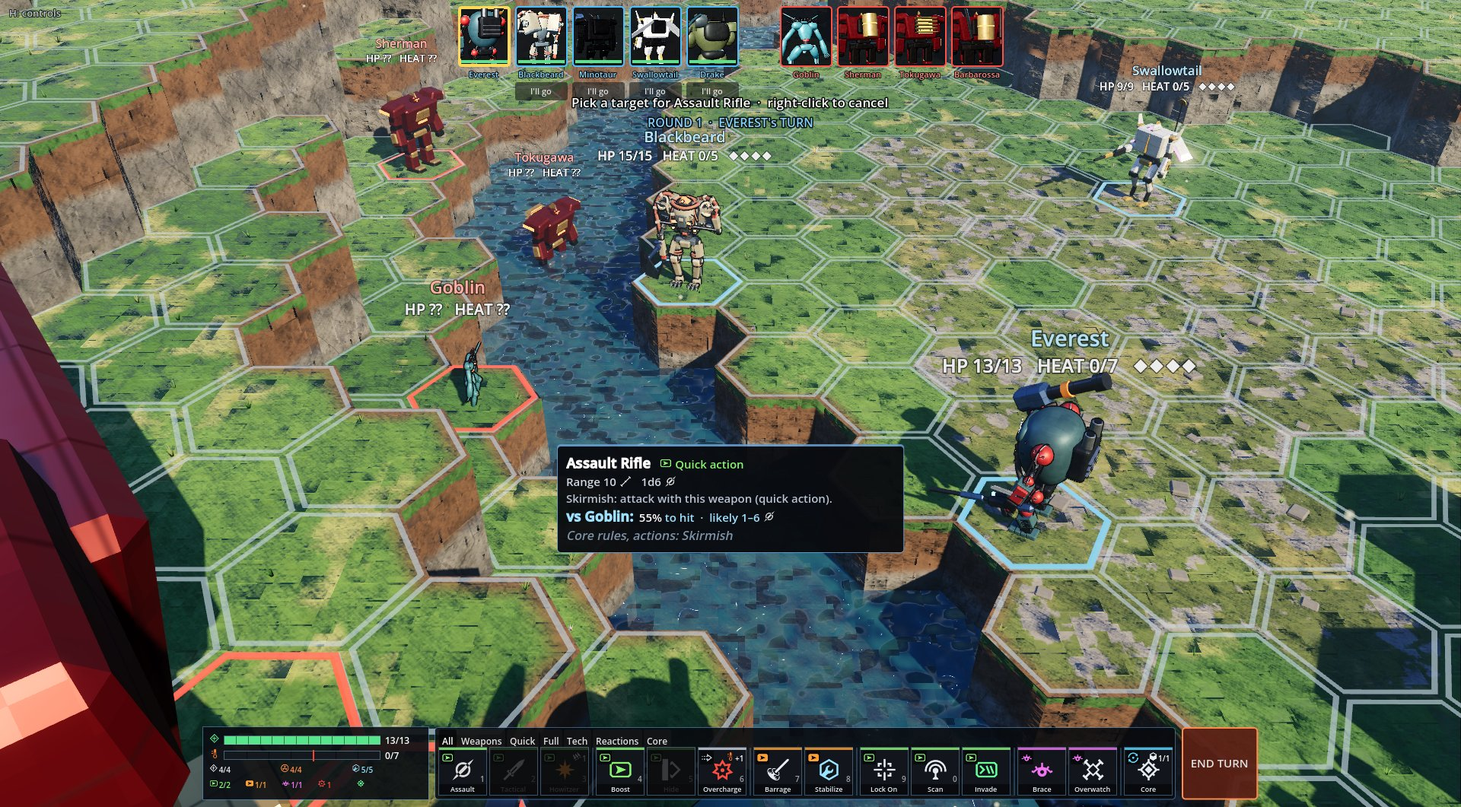
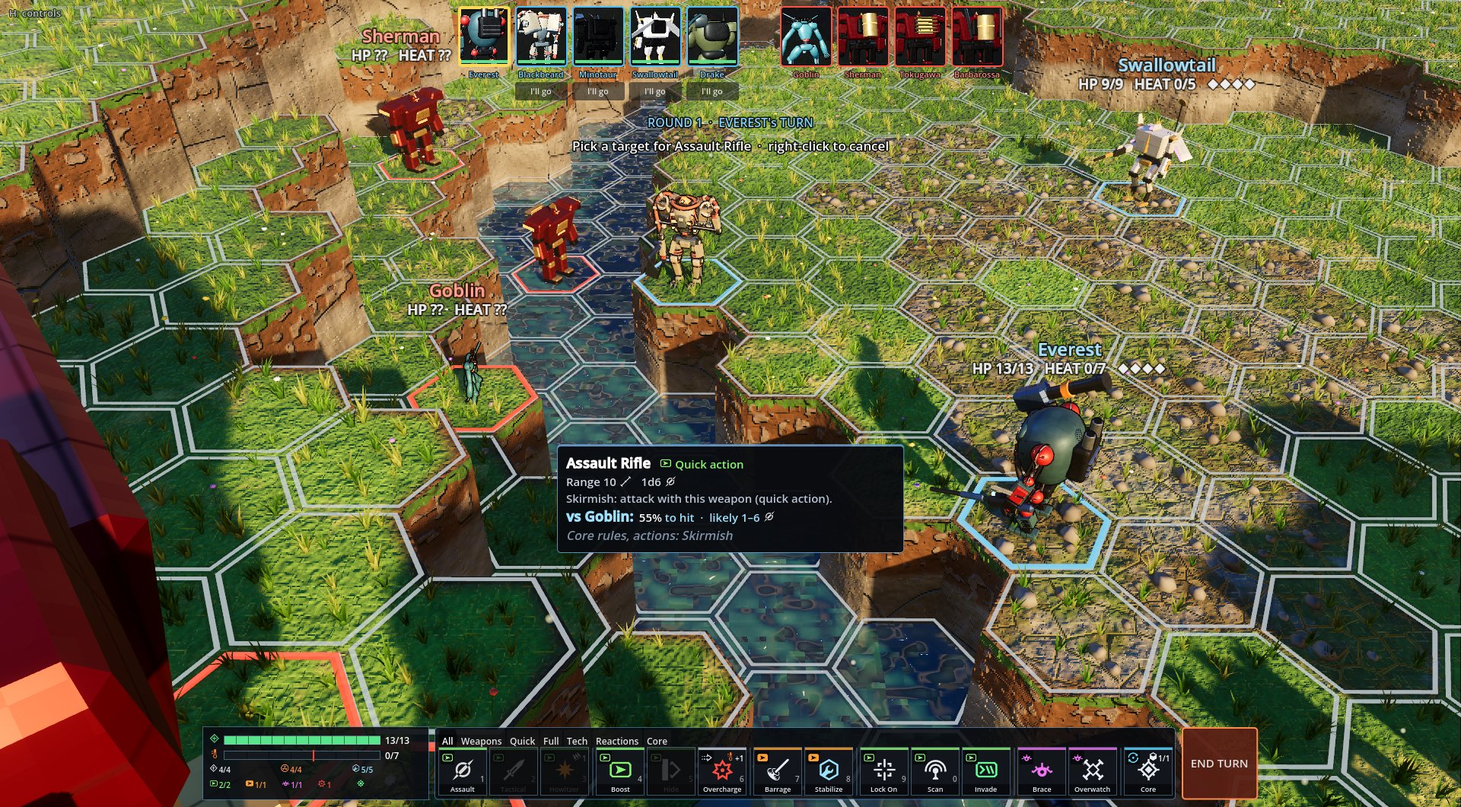
Labels: screen-space declutter for nameplates and planning labels
- New LabelDeclutter (BattleView.labels): nameplates are a fixed size on screen and are laid
  out every frame. Overlapping plates step up (or fade), and other plates keep off the active
  mech. Plates vanish under HUD panels (group label_keepout) and dim near the cursor.
  Plates at the window edges slide back on screen.
- Move cost, terrain flags, cover and NO LOS labels are screen-sized "priority" labels.
  Plates make room for them, and they step past each other.
- The turn bar banner and hint are sized to their text. The hint sits under the banner.
- main.gd stage world=<spec> shows the player-turn HUD on world-style boards.
- Fresh play_* screenshots.

diff --git a/src/render/FORMATS.md b/src/render/FORMATS.md
@@ -140,6 +140,20 @@ button. Everything is submitted to `RulesEngine`; the events go to `EventPlayer`
 `skip_to_my_turn`, `on_banner`, `on_turn_started`, `popup`. Speeds: `EventPlayer.SPEEDS`
 (cinematic 0.7, normal 1.0, fast 1.8; debug 4.0 and instant 0 for tests and demos).
 
+## Floating labels (`BattleView.labels: LabelDeclutter`)
+
+Nameplates (name, HP/heat/structure, status tags) are a fixed size on screen (1080p pixels,
+scaled with the window). Each frame they are laid out in screen space:
+- `labels.active_unit` (set on `turn_started` and by `PlayerTurn.begin`) and `labels.hover_unit`
+  (the hovered target) are placed first; other units' plates keep off the active mech.
+- A plate that overlaps another plate or a planning label steps up (at most 70 px, then it
+  fades). Plates at the window edges slide back on screen.
+- Plates under HUD panels vanish: any visible Control in group `LabelDeclutter.GROUP_KEEPOUT`
+  (turn-order bar and banner, hint, action bar, hover card, prompts, combat log).
+- Plates next to the cursor dim, except the hovered unit (your own unit's plate dims less).
+- Overlay labels made with `screen_px` (move cost, terrain flags, cover, NO LOS) are also fixed
+  size and in group `GROUP_PRIORITY`: plates make room for them, and they step past each other.
+
 ## Cameras
 
 `BattleView.set_camera_mode("tactical")` or `set_camera_mode("cockpit", unit_id, target_id)`.
